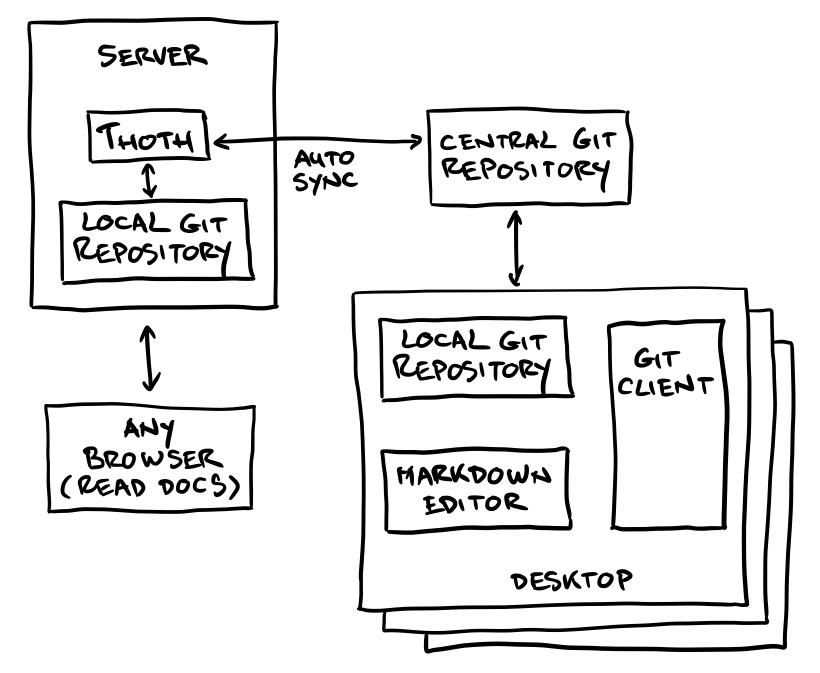
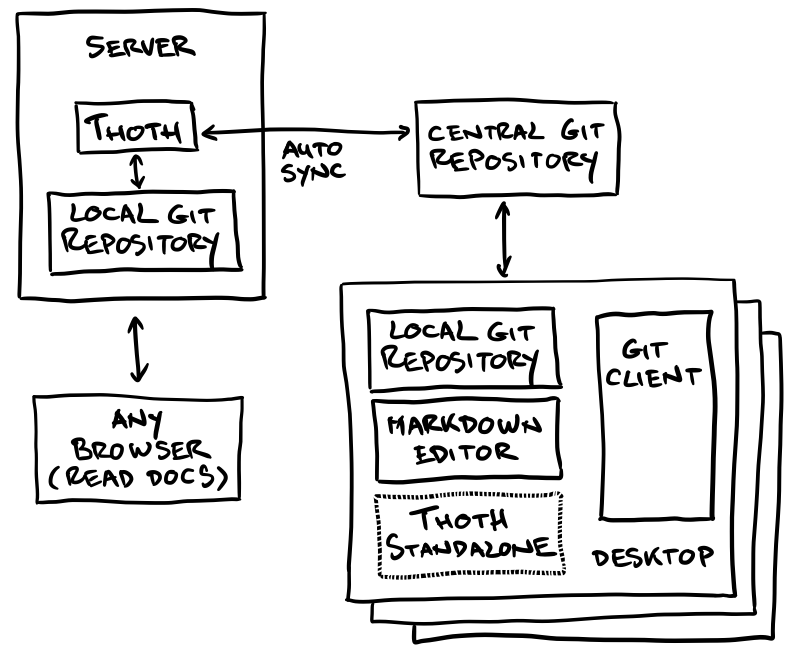
Worked on documentation

Changed region(s): [[0.0, 0.0, 0.9925, 1.0]]

diff --git a/Documentation/Overview/Features.md b/Documentation/Overview/Features.md
@@ -18,13 +18,15 @@ You can apply any number of skins to Thoth itself and the documents it can rende
 Thoth has an embedded search engine that automatically updates it’s index when changes are submitted (pushed) you the central documentation repository. The search engine supports complex expressions to help you narrow down when a simple query does not cut it.
 
 ## Meta data
-You can add meta data to your documents that can help you organize your library. Documents can be categorized based on folder structure or meta tags and meta tags can be used in templates used for rendering your output
+You can add meta data to your documents that can help you organize (and search) your library. Documents can be categorized based on folder structure or meta tags and meta tags can be used in templates used for rendering your output. The syntax adheres to [MultiMarkdown](https://github.com/fletcher/MultiMarkdown/wiki/MultiMarkdown-Syntax-Guide) although currently metadata cannot span multiple lines.
+
+## Supports Critic Markup
+You can propose additions, deletions, changes and add comments like you would do in MS Word right in your markdown. You can then choose to have these to be part of the rendered output, or show them for review until either accepted in the final document version. The syntax is based on [Critic Markup](http://criticmarkup.com)
 
 ## Configurable and extendable rendering pipeline
 Out of the box Thoth can render your Markdown documents to CSS styled HTML pages. By configuring additional outputs like PDF or EPUB you can easily render the same content to any format you want as long as you have a rendering tool that does that for you. Very good options here are [Prince](http://www.princexml.com), [Wk\<html\>to*pdf*](http://wkhtmltopdf.org) and [Pandoc](http://pandoc.org). As long as you have a command line tool that can render Markdown, CSS rich or plain HTML then you can plug it into Thoth.
 
 ## Open source, Apache license
 Thoth is open source, free and available under the [Apache license](http://www.apache.org/licenses/LICENSE-2.0). This basically means you can do whatever you like with Thoth, including use in commercial environments as long as you adhere to the terms of the license.
-
 
 

diff --git a/Documentation/Overview/Setup.md b/Documentation/Overview/Setup.md
@@ -4,6 +4,8 @@ To help you understand how this is all connected consider the following diagram:
 
 ![](images/Setup.png)
 
+Note that in this example Thoth standalone can be used on your desktop for WYSIWYG purposes. In this case you would edit your markdown, and after saving it you could simply refresh the corresponding document in your browser (connected to a locally running Thoth). Obviously the use of Thoth on your desktop is optional; if you have a tool like Marked2 in place (with Thoth running as a preprocessor) you might want nor need this.
+
 ## Tools in the mix
 Depending on your type of desktop there is a good choice of Markdown editors. For OSX there is a great app called [Ulysses](http://www.ulyssesapp.com) that you can use (enable ‘external folders’, enable ‘inline links’) and for Windows there are also good Markdown editors available (have a look at [Haroopad](http://pad.haroopress.com)). If you have other suggestions please let me know so I can add them to the list of suggested apps. You might also want to have a look at a WYSIWYG solution; for OSX you could consider [Marked2](http://marked2app.com). As a Git client I suggest you use the excellent [SourceTree from Atlassian](https://www.sourcetreeapp.com), unless you are a command line tiger of course because then a regular Git client would do as well (and then you would use VI as an editor right :-) ).
 Note that it is also possible to run Thoth on your desktop, WYSIWYG can then be done by just refreshing your browser. Benefit of this is that it is true WYSIWYG obviously.
